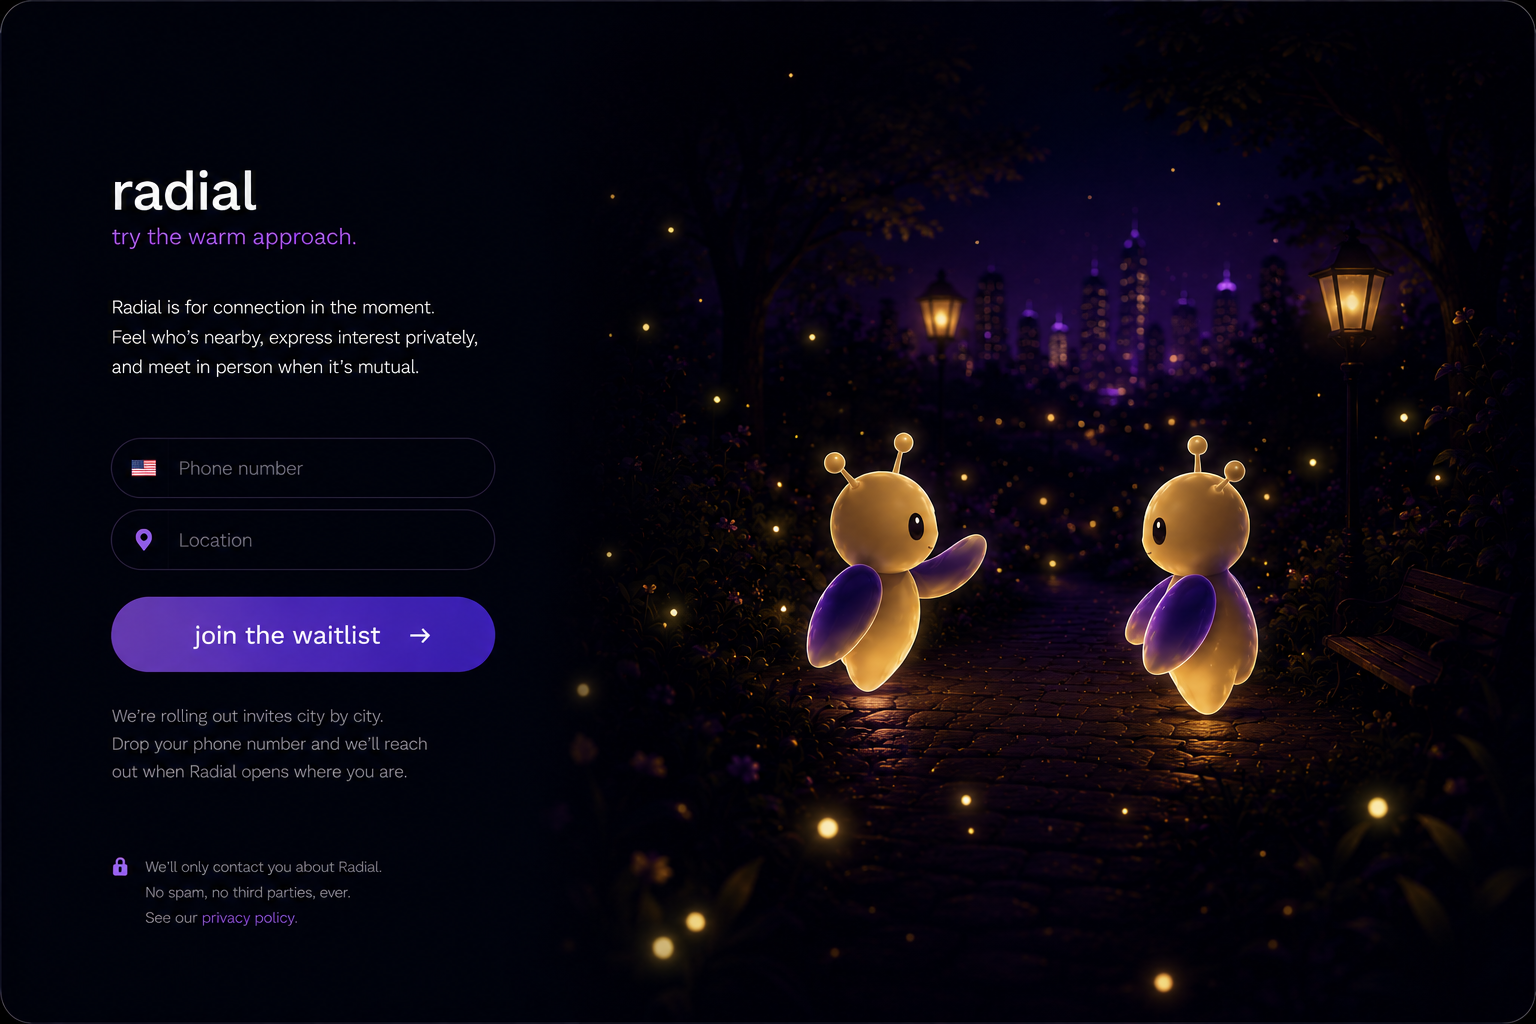
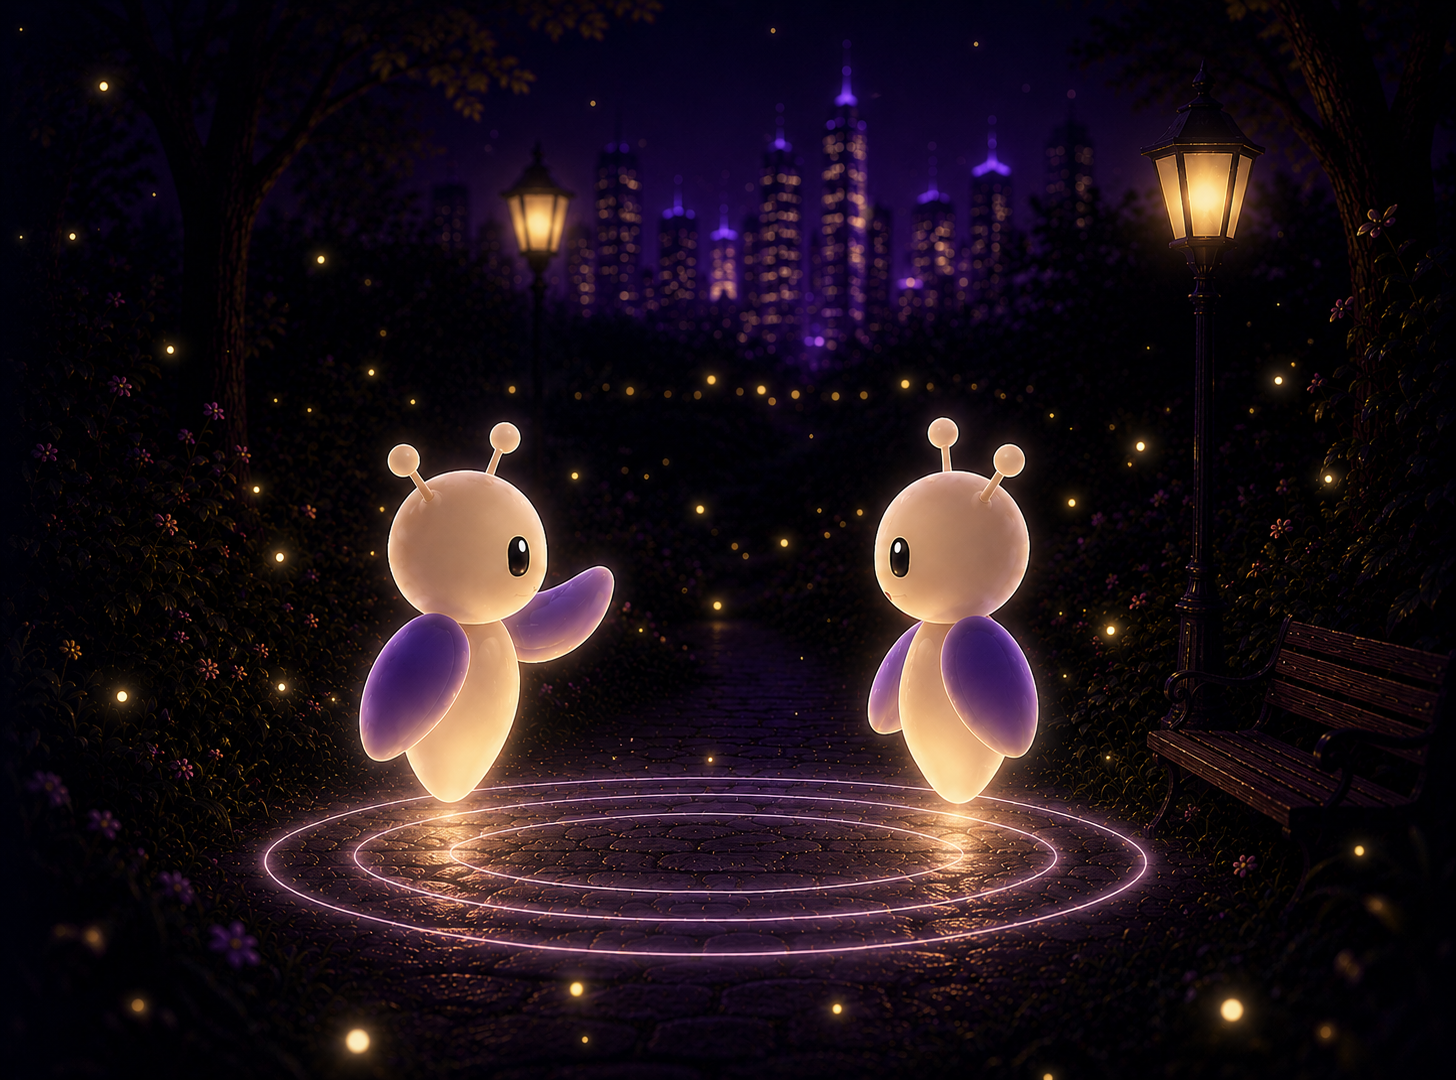
Update hero artwork and increase ambient fireflies

diff --git a/styles.css b/styles.css
@@ -316,7 +316,7 @@ form.signup button span {
 
 .firefly-layer-copy {
   inset: -10% 4% -8% -16%;
-  opacity: 0.9;
+  opacity: 1;
 }
 
 .firefly {
@@ -339,10 +339,10 @@ form.signup button span {
 .firefly-layer-copy .firefly {
   width: 6px;
   height: 6px;
-  opacity: 0.2;
+  opacity: 0.26;
   box-shadow:
-    0 0 6px rgba(255, 224, 130, 0.7),
-    0 0 14px rgba(255, 208, 95, 0.28);
+    0 0 7px rgba(255, 224, 130, 0.78),
+    0 0 18px rgba(255, 208, 95, 0.34);
 }
 
 .f1 {
@@ -490,6 +490,51 @@ form.signup button span {
   height: 5px;
   animation-duration: 17s, 5.1s;
   animation-delay: -7s, -2.8s;
+}
+
+.fc10 {
+  left: 12%;
+  top: 8%;
+  width: 4px;
+  height: 4px;
+  animation-duration: 15s, 4.4s;
+  animation-delay: -5s, -1.2s;
+}
+
+.fc11 {
+  left: 58%;
+  top: 20%;
+  width: 7px;
+  height: 7px;
+  animation-duration: 18s, 5.3s;
+  animation-delay: -11s, -2.4s;
+}
+
+.fc12 {
+  left: 32%;
+  top: 44%;
+  width: 5px;
+  height: 5px;
+  animation-duration: 13s, 4s;
+  animation-delay: -6s, -0.7s;
+}
+
+.fc13 {
+  left: 72%;
+  top: 62%;
+  width: 6px;
+  height: 6px;
+  animation-duration: 20s, 6.4s;
+  animation-delay: -15s, -3s;
+}
+
+.fc14 {
+  left: 14%;
+  top: 88%;
+  width: 8px;
+  height: 8px;
+  animation-duration: 19s, 5.7s;
+  animation-delay: -9s, -1.9s;
 }
 
 @keyframes firefly-drift {

diff --git a/index.html b/index.html
@@ -27,6 +27,11 @@
           <span class="firefly fc7"></span>
           <span class="firefly fc8"></span>
           <span class="firefly fc9"></span>
+          <span class="firefly fc10"></span>
+          <span class="firefly fc11"></span>
+          <span class="firefly fc12"></span>
+          <span class="firefly fc13"></span>
+          <span class="firefly fc14"></span>
         </div>
         <div class="brand-block">
           <h1>radial</h1>
